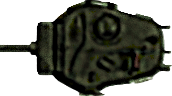
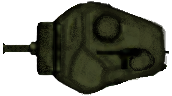
11/26 학습 일지
발사체 발사, 폭발, 탄종 선택, 발사 이동, 발사체 소멸(탄착과 수명 소멸 중 수명만 구현).

옵션 창을 게임패널에서 실행 가능하도록 구현함.(단 옵션창 선택시 게임루프 정지 로직 구현 안함. 수정 필요) 이후 이미지
버튼으로 기존 게임 창의 버튼 UI 변경할 예정.

배율 변경: 기존 이미지 1/2 배율에서, 1/3로 변경.
---------------------------------------
이후 추가할 내용
1. 충돌 로직 완성하기
2. 적 엔티티 구현(전차 적, 보병 적) 및 이동
3. 벽 엔티티 구현 및 배치(카메라에 대한 상대 위치 고려 문제, 충돌 시 파괴 여부, 파괴 후 이미지, 벽 유형
고려하기(건물, 벽, 대전차 방호벽 등))
4. 충돌 로직 중 폭발 범주에 대한 적 데미지 구현

diff --git a/LocalPVP2PShooting/src/entities/Player.java b/LocalPVP2PShooting/src/entities/Player.java
@@ -39,10 +39,10 @@ public class Player extends Entity {
 			System.err.println("img 오류");
 		}
 
-		this.TANK_BOTTOM_WIDTH = tankBottomImage.getWidth() / 2;
-		this.TANK_BOTTOM_HEIGHT = tankBottomImage.getHeight() / 2;
-		this.TANK_TOP_WIDTH = tankTopImage.getWidth() / 2;
-		this.TANK_TOP_HEIGHT = tankTopImage.getHeight() / 2;
+		this.TANK_BOTTOM_WIDTH = tankBottomImage.getWidth() / 3;
+		this.TANK_BOTTOM_HEIGHT = tankBottomImage.getHeight() / 3;
+		this.TANK_TOP_WIDTH = tankTopImage.getWidth() / 3;
+		this.TANK_TOP_HEIGHT = tankTopImage.getHeight() / 3;
 
 		this.camera = camera;
 		this.MAP_WIDTH = mapWidth;
@@ -53,7 +53,6 @@ public class Player extends Entity {
 	public TankTop getTankTop() {
 		return tankTop;
 	}
-
 
 	public int getBottomWidth() {
 		return TANK_BOTTOM_WIDTH;
@@ -69,6 +68,10 @@ public class Player extends Entity {
 
 	public int getTopWidth() {
 		return TANK_TOP_WIDTH;
+	}
+
+	public int getAngleT() {
+		return angleT;
 	}
 
 	@Override
@@ -129,8 +132,8 @@ public class Player extends Entity {
 		if (movementSpeed != 0) {
 			double radians = Math.toRadians(angleB);
 
-			int nextX = this.playerWorldX + (int) Math.round(Math.cos(radians) * movementSpeed);
-			int nextY = this.playerWorldY + (int) Math.round(Math.sin(radians) * movementSpeed);
+			int nextX = this.playerWorldX + (int)Math.round(Math.cos(radians) * movementSpeed);
+			int nextY = this.playerWorldY + (int)Math.round(Math.sin(radians) * movementSpeed);
 
 			int minX = 0;
 			int minY = 0;
@@ -144,29 +147,27 @@ public class Player extends Entity {
 		camera.updatePlayerPosition(this.playerWorldX, this.playerWorldY);
 	}
 
-	public int getAngleT() {
-		return angleT;
-	}
-
 	public void draw(Graphics g, int screenX, int screenY) {
-		Graphics2D g2 = (Graphics2D) g;
+		Graphics2D g2t = (Graphics2D) g.create();
+		Graphics2D g2b = (Graphics2D) g.create();
 
 		int bottomwidth = TANK_BOTTOM_WIDTH;
 		int bottomHeight = TANK_BOTTOM_HEIGHT;
 		int topWidth = TANK_TOP_WIDTH;
 		int topHeight = TANK_TOP_HEIGHT;
 
-		int bottomCenterX = screenX + 150 / 2;
-		int bottomCenterY = screenY + 70 / 2;
+		int bottomCenterX = screenX + 150 / 3;
+		int bottomCenterY = screenY + 70 / 3;
 		int topCenterX = bottomCenterX;
 		int topCenterY = bottomCenterY;
 
-		g2.rotate(Math.toRadians(angleB), bottomCenterX + 20, bottomCenterY);
-		g2.drawImage(tankBottomImage, screenX, screenY, bottomwidth, bottomHeight, null);
+		g2b.rotate(Math.toRadians(angleB), bottomCenterX, bottomCenterY);
+		g2b.drawImage(tankBottomImage, screenX, screenY, bottomwidth, bottomHeight, null);
+		g2b.dispose();
 
-		g2.rotate(Math.toRadians(angleT), topCenterX, topCenterY);
-		g2.drawImage(tankTopImage, screenX + 20, screenY + 10, topWidth, topHeight, null);
-
+		g2t.rotate(Math.toRadians(angleT), topCenterX, topCenterY);
+		g2t.drawImage(tankTopImage, screenX + 20, screenY + 10, topWidth, topHeight, null);
+		g2t.dispose();
 	}
 
 	@Override
@@ -208,5 +209,7 @@ public class Player extends Entity {
 	public int setHP(int HP) {
 		return 0;
 	}
+
+
 
 }

diff --git a/LocalPVP2PShooting/src/entities/Projectile.java b/LocalPVP2PShooting/src/entities/Projectile.java
@@ -21,7 +21,7 @@ public class Projectile extends Entity {
 	public Projectile(String weapon, int X, int Y, int angleT) {
 		switch (weapon) {
 		case "MG":
-			this.speed = 15;
+			this.speed = 50;
 			this.range = 50;
 			this.explosionRange = 0;
 			this.killingTankIsPossible = false;
@@ -31,8 +31,8 @@ public class Projectile extends Entity {
 			break;
 
 		case "AP":
-			this.speed = 12;
-			this.range = 300;
+			this.speed = 30;
+			this.range = 100;
 			this.explosionRange = 0;
 			this.killingTankIsPossible = true;
 			this.damage = 20;
@@ -41,9 +41,9 @@ public class Projectile extends Entity {
 			break;
 
 		case "HE":
-			this.speed = 12;
-			this.range = 300;
-			this.explosionRange = 10;
+			this.speed = 30;
+			this.range = 100;
+			this.explosionRange = 300;
 			this.killingTankIsPossible = false;
 			this.damage = 3;
 			this.width = 6;
@@ -51,20 +51,13 @@ public class Projectile extends Entity {
 			break;
 
 		case "HEAT":
-			this.speed = 12;
-			this.range = 300;
-			this.explosionRange = 0;
+			this.speed = 30;
+			this.range = 100;
+			this.explosionRange = 300;
 			this.killingTankIsPossible = true;
 			this.damage = 100;
 			this.width = 6;
 			this.height = 8;
-			break;
-
-		default:
-			this.speed = 10;
-			this.range = 100;
-			this.width = 5;
-			this.height = 5;
 			break;
 		}
 		this.WorldX = X;
@@ -75,8 +68,8 @@ public class Projectile extends Entity {
 	@Override
 	public void updatePosition() {
 		double radians = Math.toRadians(angleT);
-		this.WorldX += (int) Math.round(this.speed * Math.cos(radians));
-		this.WorldY += (int) Math.round(this.speed * Math.sin(radians));
+		this.WorldX -= (int) Math.round(this.speed * Math.cos(radians));
+		this.WorldY -= (int) Math.round(this.speed * Math.sin(radians));
 		this.range--;
 		if (this.range <= 0) {
 			GameManager.getInstance().removeProjectile(this);
@@ -85,13 +78,22 @@ public class Projectile extends Entity {
 
 	@Override
 	public void draw(Graphics g, int screenX, int screenY) {
+		updatePosition();
+		if (this.range <= 0 && explosionRange > 0) {
+			drawExplo(g, screenX-explosionRange/2, screenY-explosionRange/2);
+		}
 		Graphics2D g2 = (Graphics2D) g.create();
-		
+
 		g2.setColor(Color.YELLOW);
 		g2.rotate(Math.toRadians(angleT), screenX + width / 2, screenY + height / 2);
-		g2.fillRect(screenX, screenY, width, height);
-		
+		g2.fillRect(screenX - 80, screenY, width, height);
+
 		g2.dispose();
+	}
+
+	public void drawExplo(Graphics g, int screenX, int screenY) {
+		g.setColor(Color.red);
+		g.fillRect(screenX, screenY, explosionRange, explosionRange);
 	}
 
 	@Override

diff --git a/LocalPVP2PShooting/src/view/Camera.java b/LocalPVP2PShooting/src/view/Camera.java
@@ -7,8 +7,8 @@ public class Camera {
 	private static final int MAP_WIDTH = MapManager.MAP_WIDTH;
 	private static final int MAP_HEIGHT = MapManager.MAP_HEIGHT;
 
-	private int playerWorldX;
-	private int playerWorldY;
+	private double playerWorldX;
+	private double playerWorldY;
 	private int cameraWorldX = 0;
 	private int cameraWorldY = 0;
 	private GameWindow window;
@@ -19,7 +19,7 @@ public class Camera {
 	public Camera() {
 	}
 
-	public void updatePlayerPosition(int playerWorldX, int playerWorldY) {
+	public void updatePlayerPosition(double playerWorldX, double playerWorldY) {
 		this.playerWorldX = playerWorldX;
 		this.playerWorldY = playerWorldY;
 	}
@@ -37,8 +37,8 @@ public class Camera {
 		int deadZoneMinY = ((viewPortHeight - DEAD_ZONE_HEIGHT) / 2);
 		int deadZoneMaxY = (deadZoneMinY + DEAD_ZONE_HEIGHT);
 
-		int playerDeadZoneRefX = playerWorldX - cameraWorldX;
-		int playerDeadZoneRefY = playerWorldY - cameraWorldY;
+		double playerDeadZoneRefX = playerWorldX - cameraWorldX;
+		double playerDeadZoneRefY = playerWorldY - cameraWorldY;
 
 		if (playerDeadZoneRefX > deadZoneMaxX) {
 			cameraWorldX += playerDeadZoneRefX - deadZoneMaxX;
@@ -63,11 +63,11 @@ public class Camera {
 		return FIXED_RANDER_SIZE;
 	}
 
-	public int getplayerWorldX() {
+	public double getplayerWorldX() {
 		return playerWorldX;
 	}
 
-	public int getplayerWorldY() {
+	public double getplayerWorldY() {
 		return playerWorldY;
 	}
 

diff --git a/LocalPVP2PShooting/src/view/GamePanel.java b/LocalPVP2PShooting/src/view/GamePanel.java
@@ -1,7 +1,7 @@
 package view;
 
-import java.awt.Color;
 import java.awt.Graphics;
+import java.awt.Window;
 import java.awt.event.ActionEvent;
 import java.awt.event.ActionListener;
 import java.awt.event.KeyAdapter;
@@ -21,11 +21,16 @@ public class GamePanel extends JPanel implements ActionListener {
 	private final Player mainPlayer;
 	private final Camera camera;
 	private final TankTop tankTop;
-	private final int FIXED_VIEW_SIZE;
+	private JButton b2 = new JButton("옵션");
 
 	public GamePanel() {
+		add(b2);
+
+		b2.addActionListener(e -> {
+			Window gameWindow = SwingUtilities.getWindowAncestor(this);
+			((GameWindow) gameWindow).changePanel("OPTION");
+		});
 		this.camera = manager.getCamera();
-		this.FIXED_VIEW_SIZE = camera.getCameraSize();
 		this.mainPlayer = (Player) manager.getEntity(0);
 		this.tankTop = mainPlayer.getTankTop();
 		addKeyListener(new KeyAdapter() {
@@ -41,7 +46,6 @@ public class GamePanel extends JPanel implements ActionListener {
 			}
 		});
 
-		setBackground(Color.BLACK);
 	}
 
 	@Override

diff --git a/LocalPVP2PShooting/src/view/OptionPanel.java b/LocalPVP2PShooting/src/view/OptionPanel.java
@@ -9,19 +9,31 @@ import javax.swing.SwingUtilities;
 
 
 public class OptionPanel extends JPanel{
-	private JButton b=new JButton("타이틀로 돌아가기");
+	private JButton b1=new JButton("타이틀로 돌아가기");
+	private JButton b2=new JButton("돌아가기");
+	private JButton b3=new JButton("게임 종료");
     
 	public OptionPanel() {
-		add(b);
-		setBackground(Color.BLACK);
-        
-		b.addActionListener(e->{
-			// 
+		add(b1);
+		add(b2);
+		add(b3);
+	
+		b1.addActionListener(e->{
 			Window window = SwingUtilities.getWindowAncestor(this);
 			if (window instanceof GameWindow) {
 				((GameWindow) window).changePanel("TITLE");
 			}
 		});
+		b2.addActionListener(e->{
+			Window window = SwingUtilities.getWindowAncestor(this);
+			if (window instanceof GameWindow) {
+				((GameWindow) window).changePanel("GAME");
+			}
+		});
+		b3.addActionListener(e -> {
+			System.exit(0);
+		});
 	}
 
+	
 }

diff --git a/LocalPVP2PShooting/src/core/CollisionManager.java b/LocalPVP2PShooting/src/core/CollisionManager.java
@@ -25,13 +25,13 @@ public class CollisionManager {
 
 		int aH = a.getHeight();
 		int aW = a.getWidth();
-		int aX = a.getWorldX();
-		int aY = a.getWorldY();
+		double aX = a.getWorldX();
+		double aY = a.getWorldY();
 
 		int bH = b.getHeight();
 		int bW = b.getWidth();
-		int bX = b.getWorldX();
-		int bY = b.getWorldY();
+		double bX = b.getWorldX();
+		double bY = b.getWorldY();
 
 		boolean overlapX = (aX < bX + bW) && (aX + aW > bX);
 		boolean overlapY = (aY < bY + bH) && (aY + aH > bY);

diff --git a/LocalPVP2PShooting/src/core/MapManager.java b/LocalPVP2PShooting/src/core/MapManager.java
@@ -7,8 +7,8 @@ import javax.imageio.ImageIO;
 
 public class MapManager {
 	public static final int TILE_SIZE = 200;
-	public static final int WIDTH_TILES = 10;
-	public static final int HEIGHT_TILES = 10;
+	public static final int WIDTH_TILES = 100;
+	public static final int HEIGHT_TILES = 100;
 
 	public static final int MAP_WIDTH = WIDTH_TILES * TILE_SIZE;
 	public static final int MAP_HEIGHT = HEIGHT_TILES * TILE_SIZE;

diff --git a/LocalPVP2PShooting/src/entities/TankTop.java b/LocalPVP2PShooting/src/entities/TankTop.java
@@ -34,10 +34,10 @@ public class TankTop extends Entity {
 			fireDelay = 500;
 			break;
 		case KeyEvent.VK_C:
-			long currentTime = System.currentTimeMillis();
-			if (currentTime - lastFireTime > fireDelay) {
+			long start = System.currentTimeMillis();
+			if (start - lastFireTime > fireDelay) {
 				fire();
-				lastFireTime = currentTime;
+				lastFireTime = start;
 				System.out.println("발사");
 			}
 			break;

diff --git a/LocalPVP2PShooting/src/core/GameManager.java b/LocalPVP2PShooting/src/core/GameManager.java
@@ -87,4 +87,9 @@ public class GameManager {
 		Player MAINPLAYER = (Player) arr.get(0);
 		MAINPLAYER.updatePosition();
 	}
+
+	public void makeProjectile(String weapon, double centerX, double centerY, int angleT) {
+		// TODO Auto-generated method stub
+		
+	}
 }
